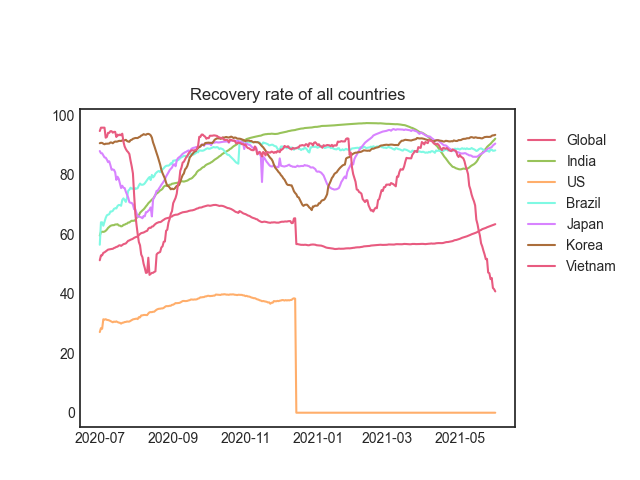
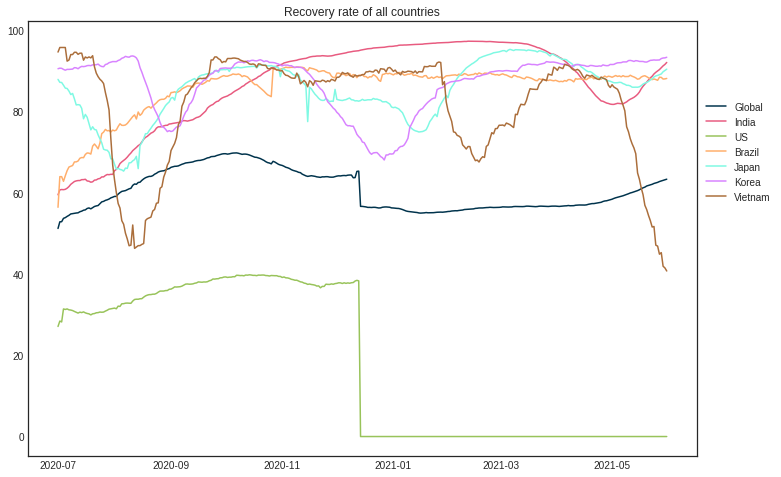
Small fixes of visual codes

diff --git a/Visuals/Basic visuals/Code/CFR All countries.py b/Visuals/Basic visuals/Code/CFR All countries.py
@@ -6,30 +6,22 @@ from pandas import datetime
 from matplotlib import pyplot as plt
 
 mpl.style.use('seaborn-white')
-my_pallete = sns.set_palette(
-	['#E85B80', '#98C35A', '#FFAE6B', '#7FF9E3', '#D883FF', '#AB6E3B'])
+my_pallete = sns.set_palette(['#00334C', '#E85B80', '#98C35A', '#FFAE6B', '#7FF9E3', '#D883FF', '#AB6E3B'])
 
 
 def parser(x):
 	return datetime.strptime('202'+x, '%Y-%m-%d')
 
 
-gl0bal = read_csv('https://raw.githubusercontent.com/ll-cooool-j/DS-Assignment/main/Datasets/Datasets%20of%20each%20country%20and%20Global%20(main%20dataset%20-%208%20attributes)/Global%20(SPSS).csv',
-                  header=0, parse_dates=[0], index_col=0, squeeze=True, date_parser=parser)
-india = read_csv('https://raw.githubusercontent.com/ll-cooool-j/DS-Assignment/main/Datasets/Datasets%20of%20each%20country%20and%20Global%20(main%20dataset%20-%208%20attributes)/Highest%20Number%20of%20Infections%20Country%20~%20India%20(SPSS).csv',
-                  header=0, parse_dates=[0], index_col=0, squeeze=True, date_parser=parser)
-us = read_csv('https://raw.githubusercontent.com/ll-cooool-j/DS-Assignment/main/Datasets/Datasets%20of%20each%20country%20and%20Global%20(main%20dataset%20-%208%20attributes)/Highest%20Number%20of%20Infections%20Country%20~%20United%20States%20(SPSS).csv',
-                  header=0, parse_dates=[0], index_col=0, squeeze=True, date_parser=parser)
-brazil = read_csv('https://raw.githubusercontent.com/ll-cooool-j/DS-Assignment/main/Datasets/Datasets%20of%20each%20country%20and%20Global%20(main%20dataset%20-%208%20attributes)/Highest%20Number%20of%20Infections%20Country%20~%20Brazil%20(SPSS).csv',
-                  header=0, parse_dates=[0], index_col=0, squeeze=True, date_parser=parser)
-japan = read_csv('https://raw.githubusercontent.com/ll-cooool-j/DS-Assignment/main/Datasets/Datasets%20of%20each%20country%20and%20Global%20(main%20dataset%20-%208%20attributes)/Asian%20Country%20~%20Japan%20(SPSS).csv',
-                  header=0, parse_dates=[0], index_col=0, squeeze=True, date_parser=parser)
-korea = read_csv('https://raw.githubusercontent.com/ll-cooool-j/DS-Assignment/main/Datasets/Datasets%20of%20each%20country%20and%20Global%20(main%20dataset%20-%208%20attributes)/Asian%20Country%20~%20South%20Korea%20(SPSS).csv',
-                  header=0, parse_dates=[0], index_col=0, squeeze=True, date_parser=parser)
-vn = read_csv('https://raw.githubusercontent.com/ll-cooool-j/DS-Assignment/main/Datasets/Datasets%20of%20each%20country%20and%20Global%20(main%20dataset%20-%208%20attributes)/Asian%20Country%20~%20Vietnam%20(SPSS).csv',
-                  header=0, parse_dates=[0], index_col=0, squeeze=True, date_parser=parser)
+gl0bal = read_csv('https://raw.githubusercontent.com/ll-cooool-j/DS-Assignment/main/Datasets/Datasets%20of%20each%20country%20and%20Global%20(main%20dataset%20-%208%20attributes)/Global%20(SPSS).csv', header=0, parse_dates=[0], index_col=0, squeeze=True, date_parser=parser)
+india = read_csv('https://raw.githubusercontent.com/ll-cooool-j/DS-Assignment/main/Datasets/Datasets%20of%20each%20country%20and%20Global%20(main%20dataset%20-%208%20attributes)/Highest%20Number%20of%20Infections%20Country%20~%20India%20(SPSS).csv', header=0, parse_dates=[0], index_col=0, squeeze=True, date_parser=parser)
+us = read_csv('https://raw.githubusercontent.com/ll-cooool-j/DS-Assignment/main/Datasets/Datasets%20of%20each%20country%20and%20Global%20(main%20dataset%20-%208%20attributes)/Highest%20Number%20of%20Infections%20Country%20~%20United%20States%20(SPSS).csv', header=0, parse_dates=[0], index_col=0, squeeze=True, date_parser=parser)
+brazil = read_csv('https://raw.githubusercontent.com/ll-cooool-j/DS-Assignment/main/Datasets/Datasets%20of%20each%20country%20and%20Global%20(main%20dataset%20-%208%20attributes)/Highest%20Number%20of%20Infections%20Country%20~%20Brazil%20(SPSS).csv',header=0, parse_dates=[0], index_col=0, squeeze=True, date_parser=parser)
+japan = read_csv('https://raw.githubusercontent.com/ll-cooool-j/DS-Assignment/main/Datasets/Datasets%20of%20each%20country%20and%20Global%20(main%20dataset%20-%208%20attributes)/Asian%20Country%20~%20Japan%20(SPSS).csv',header=0, parse_dates=[0], index_col=0, squeeze=True, date_parser=parser)
+korea = read_csv('https://raw.githubusercontent.com/ll-cooool-j/DS-Assignment/main/Datasets/Datasets%20of%20each%20country%20and%20Global%20(main%20dataset%20-%208%20attributes)/Asian%20Country%20~%20South%20Korea%20(SPSS).csv',header=0, parse_dates=[0], index_col=0, squeeze=True, date_parser=parser)
+vn = read_csv('https://raw.githubusercontent.com/ll-cooool-j/DS-Assignment/main/Datasets/Datasets%20of%20each%20country%20and%20Global%20(main%20dataset%20-%208%20attributes)/Asian%20Country%20~%20Vietnam%20(SPSS).csv', header=0, parse_dates=[0], index_col=0, squeeze=True, date_parser=parser)
 
-fig, ax = plt.subplots()
+fig, ax = plt.subplots(figsize=(12,8))
 ax.plot(gl0bal['CFR'], label = "Global")
 ax.plot(india['CFR'], label = "India")
 ax.plot(us['CFR'], label = "US")

diff --git a/Visuals/Basic visuals/Code/Mortality Rate All countries.py b/Visuals/Basic visuals/Code/Mortality Rate All countries.py
@@ -7,29 +7,22 @@ from matplotlib import pyplot as plt
 
 mpl.style.use('seaborn-white')
 my_pallete = sns.set_palette(
-	['#E85B80', '#98C35A', '#FFAE6B', '#7FF9E3', '#D883FF', '#AB6E3B'])
+	['#00334C','#E85B80', '#98C35A', '#FFAE6B', '#7FF9E3', '#D883FF', '#AB6E3B'])
 
 
 def parser(x):
 	return datetime.strptime('202'+x, '%Y-%m-%d')
 
 
-gl0bal = read_csv('https://raw.githubusercontent.com/ll-cooool-j/DS-Assignment/main/Datasets/Datasets%20of%20each%20country%20and%20Global%20(main%20dataset%20-%208%20attributes)/Global%20(SPSS).csv',
-                  header=0, parse_dates=[0], index_col=0, squeeze=True, date_parser=parser)
-india = read_csv('https://raw.githubusercontent.com/ll-cooool-j/DS-Assignment/main/Datasets/Datasets%20of%20each%20country%20and%20Global%20(main%20dataset%20-%208%20attributes)/Highest%20Number%20of%20Infections%20Country%20~%20India%20(SPSS).csv',
-                 header=0, parse_dates=[0], index_col=0, squeeze=True, date_parser=parser)
-us = read_csv('https://raw.githubusercontent.com/ll-cooool-j/DS-Assignment/main/Datasets/Datasets%20of%20each%20country%20and%20Global%20(main%20dataset%20-%208%20attributes)/Highest%20Number%20of%20Infections%20Country%20~%20United%20States%20(SPSS).csv',
-              header=0, parse_dates=[0], index_col=0, squeeze=True, date_parser=parser)
-brazil = read_csv('https://raw.githubusercontent.com/ll-cooool-j/DS-Assignment/main/Datasets/Datasets%20of%20each%20country%20and%20Global%20(main%20dataset%20-%208%20attributes)/Highest%20Number%20of%20Infections%20Country%20~%20Brazil%20(SPSS).csv',
-                  header=0, parse_dates=[0], index_col=0, squeeze=True, date_parser=parser)
-japan = read_csv('https://raw.githubusercontent.com/ll-cooool-j/DS-Assignment/main/Datasets/Datasets%20of%20each%20country%20and%20Global%20(main%20dataset%20-%208%20attributes)/Asian%20Country%20~%20Japan%20(SPSS).csv',
-                 header=0, parse_dates=[0], index_col=0, squeeze=True, date_parser=parser)
-korea = read_csv('https://raw.githubusercontent.com/ll-cooool-j/DS-Assignment/main/Datasets/Datasets%20of%20each%20country%20and%20Global%20(main%20dataset%20-%208%20attributes)/Asian%20Country%20~%20South%20Korea%20(SPSS).csv',
-                 header=0, parse_dates=[0], index_col=0, squeeze=True, date_parser=parser)
-vn = read_csv('https://raw.githubusercontent.com/ll-cooool-j/DS-Assignment/main/Datasets/Datasets%20of%20each%20country%20and%20Global%20(main%20dataset%20-%208%20attributes)/Asian%20Country%20~%20Vietnam%20(SPSS).csv',
-              header=0, parse_dates=[0], index_col=0, squeeze=True, date_parser=parser)
+gl0bal = read_csv('https://raw.githubusercontent.com/ll-cooool-j/DS-Assignment/main/Datasets/Datasets%20of%20each%20country%20and%20Global%20(main%20dataset%20-%208%20attributes)/Global%20(SPSS).csv',header=0, parse_dates=[0], index_col=0, squeeze=True, date_parser=parser)
+india = read_csv('https://raw.githubusercontent.com/ll-cooool-j/DS-Assignment/main/Datasets/Datasets%20of%20each%20country%20and%20Global%20(main%20dataset%20-%208%20attributes)/Highest%20Number%20of%20Infections%20Country%20~%20India%20(SPSS).csv',header=0, parse_dates=[0], index_col=0, squeeze=True, date_parser=parser)
+us = read_csv('https://raw.githubusercontent.com/ll-cooool-j/DS-Assignment/main/Datasets/Datasets%20of%20each%20country%20and%20Global%20(main%20dataset%20-%208%20attributes)/Highest%20Number%20of%20Infections%20Country%20~%20United%20States%20(SPSS).csv',header=0, parse_dates=[0], index_col=0, squeeze=True, date_parser=parser)
+brazil = read_csv('https://raw.githubusercontent.com/ll-cooool-j/DS-Assignment/main/Datasets/Datasets%20of%20each%20country%20and%20Global%20(main%20dataset%20-%208%20attributes)/Highest%20Number%20of%20Infections%20Country%20~%20Brazil%20(SPSS).csv',header=0, parse_dates=[0], index_col=0, squeeze=True, date_parser=parser)
+japan = read_csv('https://raw.githubusercontent.com/ll-cooool-j/DS-Assignment/main/Datasets/Datasets%20of%20each%20country%20and%20Global%20(main%20dataset%20-%208%20attributes)/Asian%20Country%20~%20Japan%20(SPSS).csv',header=0, parse_dates=[0], index_col=0, squeeze=True, date_parser=parser)
+korea = read_csv('https://raw.githubusercontent.com/ll-cooool-j/DS-Assignment/main/Datasets/Datasets%20of%20each%20country%20and%20Global%20(main%20dataset%20-%208%20attributes)/Asian%20Country%20~%20South%20Korea%20(SPSS).csv',header=0, parse_dates=[0], index_col=0, squeeze=True, date_parser=parser)
+vn = read_csv('https://raw.githubusercontent.com/ll-cooool-j/DS-Assignment/main/Datasets/Datasets%20of%20each%20country%20and%20Global%20(main%20dataset%20-%208%20attributes)/Asian%20Country%20~%20Vietnam%20(SPSS).csv',header=0, parse_dates=[0], index_col=0, squeeze=True, date_parser=parser)
 
-fig, ax = plt.subplots()
+fig, ax = plt.subplots(figsize=(12,8))
 ax.plot(gl0bal['Mortality_rate'], label="Global")
 ax.plot(india['Mortality_rate'], label="India")
 ax.plot(us['Mortality_rate'], label="US")

diff --git a/Visuals/Basic visuals/Code/Recovery Rate All countries.py b/Visuals/Basic visuals/Code/Recovery Rate All countries.py
@@ -7,29 +7,22 @@ from matplotlib import pyplot as plt
 
 mpl.style.use('seaborn-white')
 my_pallete = sns.set_palette(
-	['#E85B80', '#98C35A', '#FFAE6B', '#7FF9E3', '#D883FF', '#AB6E3B'])
+	['#00334C','#E85B80', '#98C35A', '#FFAE6B', '#7FF9E3', '#D883FF', '#AB6E3B'])
 
 
 def parser(x):
 	return datetime.strptime('202'+x, '%Y-%m-%d')
 
 
-gl0bal = read_csv('https://raw.githubusercontent.com/ll-cooool-j/DS-Assignment/main/Datasets/Datasets%20of%20each%20country%20and%20Global%20(main%20dataset%20-%208%20attributes)/Global%20(SPSS).csv',
-                  header=0, parse_dates=[0], index_col=0, squeeze=True, date_parser=parser)
-india = read_csv('https://raw.githubusercontent.com/ll-cooool-j/DS-Assignment/main/Datasets/Datasets%20of%20each%20country%20and%20Global%20(main%20dataset%20-%208%20attributes)/Highest%20Number%20of%20Infections%20Country%20~%20India%20(SPSS).csv',
-                 header=0, parse_dates=[0], index_col=0, squeeze=True, date_parser=parser)
-us = read_csv('https://raw.githubusercontent.com/ll-cooool-j/DS-Assignment/main/Datasets/Datasets%20of%20each%20country%20and%20Global%20(main%20dataset%20-%208%20attributes)/Highest%20Number%20of%20Infections%20Country%20~%20United%20States%20(SPSS).csv',
-              header=0, parse_dates=[0], index_col=0, squeeze=True, date_parser=parser)
-brazil = read_csv('https://raw.githubusercontent.com/ll-cooool-j/DS-Assignment/main/Datasets/Datasets%20of%20each%20country%20and%20Global%20(main%20dataset%20-%208%20attributes)/Highest%20Number%20of%20Infections%20Country%20~%20Brazil%20(SPSS).csv',
-                  header=0, parse_dates=[0], index_col=0, squeeze=True, date_parser=parser)
-japan = read_csv('https://raw.githubusercontent.com/ll-cooool-j/DS-Assignment/main/Datasets/Datasets%20of%20each%20country%20and%20Global%20(main%20dataset%20-%208%20attributes)/Asian%20Country%20~%20Japan%20(SPSS).csv',
-                 header=0, parse_dates=[0], index_col=0, squeeze=True, date_parser=parser)
-korea = read_csv('https://raw.githubusercontent.com/ll-cooool-j/DS-Assignment/main/Datasets/Datasets%20of%20each%20country%20and%20Global%20(main%20dataset%20-%208%20attributes)/Asian%20Country%20~%20South%20Korea%20(SPSS).csv',
-                 header=0, parse_dates=[0], index_col=0, squeeze=True, date_parser=parser)
-vn = read_csv('https://raw.githubusercontent.com/ll-cooool-j/DS-Assignment/main/Datasets/Datasets%20of%20each%20country%20and%20Global%20(main%20dataset%20-%208%20attributes)/Asian%20Country%20~%20Vietnam%20(SPSS).csv',
-              header=0, parse_dates=[0], index_col=0, squeeze=True, date_parser=parser)
+gl0bal = read_csv('https://raw.githubusercontent.com/ll-cooool-j/DS-Assignment/main/Datasets/Datasets%20of%20each%20country%20and%20Global%20(main%20dataset%20-%208%20attributes)/Global%20(SPSS).csv',header=0, parse_dates=[0], index_col=0, squeeze=True, date_parser=parser)
+india = read_csv('https://raw.githubusercontent.com/ll-cooool-j/DS-Assignment/main/Datasets/Datasets%20of%20each%20country%20and%20Global%20(main%20dataset%20-%208%20attributes)/Highest%20Number%20of%20Infections%20Country%20~%20India%20(SPSS).csv',header=0, parse_dates=[0], index_col=0, squeeze=True, date_parser=parser)
+us = read_csv('https://raw.githubusercontent.com/ll-cooool-j/DS-Assignment/main/Datasets/Datasets%20of%20each%20country%20and%20Global%20(main%20dataset%20-%208%20attributes)/Highest%20Number%20of%20Infections%20Country%20~%20United%20States%20(SPSS).csv',header=0, parse_dates=[0], index_col=0, squeeze=True, date_parser=parser)
+brazil = read_csv('https://raw.githubusercontent.com/ll-cooool-j/DS-Assignment/main/Datasets/Datasets%20of%20each%20country%20and%20Global%20(main%20dataset%20-%208%20attributes)/Highest%20Number%20of%20Infections%20Country%20~%20Brazil%20(SPSS).csv',header=0, parse_dates=[0], index_col=0, squeeze=True, date_parser=parser)
+japan = read_csv('https://raw.githubusercontent.com/ll-cooool-j/DS-Assignment/main/Datasets/Datasets%20of%20each%20country%20and%20Global%20(main%20dataset%20-%208%20attributes)/Asian%20Country%20~%20Japan%20(SPSS).csv',header=0, parse_dates=[0], index_col=0, squeeze=True, date_parser=parser)
+korea = read_csv('https://raw.githubusercontent.com/ll-cooool-j/DS-Assignment/main/Datasets/Datasets%20of%20each%20country%20and%20Global%20(main%20dataset%20-%208%20attributes)/Asian%20Country%20~%20South%20Korea%20(SPSS).csv',header=0, parse_dates=[0], index_col=0, squeeze=True, date_parser=parser)
+vn = read_csv('https://raw.githubusercontent.com/ll-cooool-j/DS-Assignment/main/Datasets/Datasets%20of%20each%20country%20and%20Global%20(main%20dataset%20-%208%20attributes)/Asian%20Country%20~%20Vietnam%20(SPSS).csv',header=0, parse_dates=[0], index_col=0, squeeze=True, date_parser=parser)
 
-fig, ax = plt.subplots()
+fig, ax = plt.subplots(figsize=(12,8))
 ax.plot(gl0bal['Recovery_rate'], label="Global")
 ax.plot(india['Recovery_rate'], label="India")
 ax.plot(us['Recovery_rate'], label="US")
